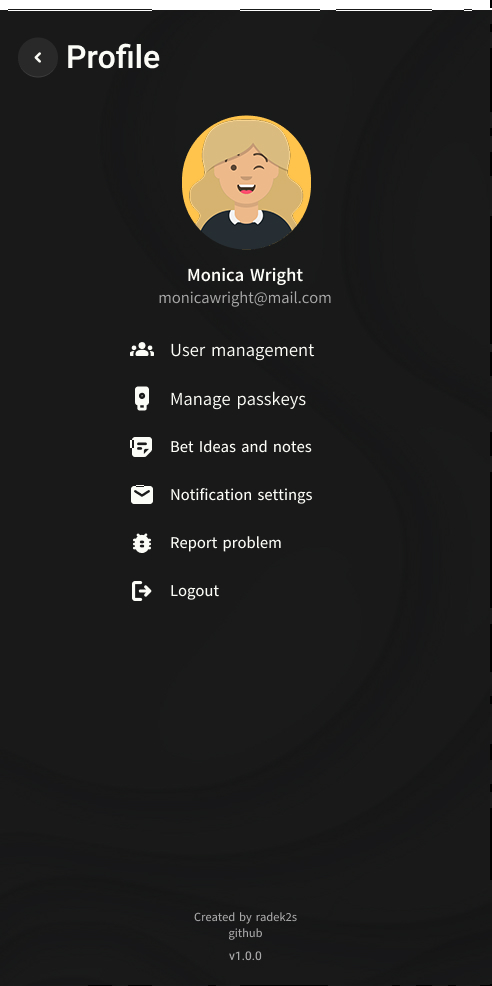
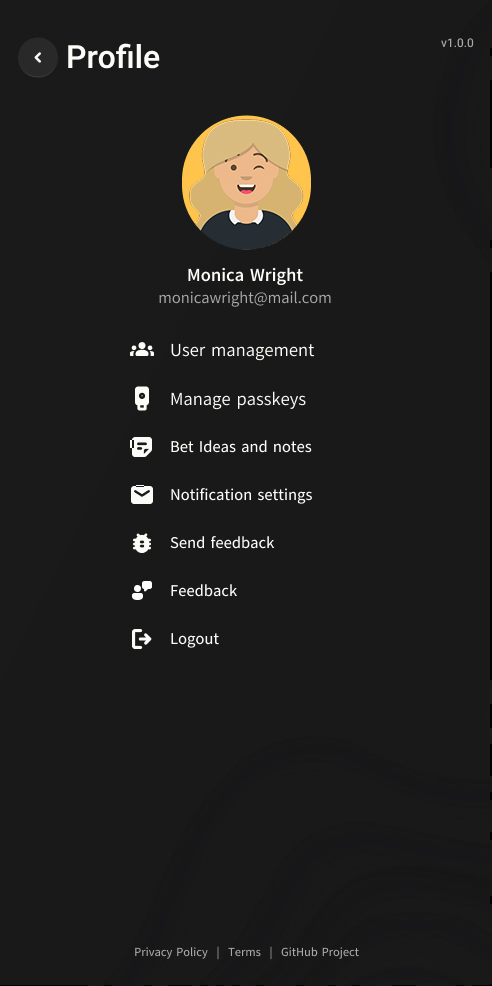
Update use cases and notification designs

diff --git a/documents/01_requirements/use_cases/bet_context.md b/documents/01_requirements/use_cases/bet_context.md
@@ -1,10 +1,10 @@
 ### Bet context
-User with at least one friend he is able to create new bet request. **Bet request** is a draft of **Bet** where participants must define common version of terms, claims and stakes that are accepted by both participants. Any participant can approve or reject given terms, claims and stakes. When participant reject request it disappears from his pending bet request list but still is able to find it from bet requests rejected list view.
+User with at least one friend he is able to create new bet request. **Bet request** is a draft of **Bet** where participants must define common version of terms, claims and stakes that are accepted by both participants. When somebody is invited to bet request firend should be informed about new item via email (if has enabled specific settings). Any participant can approve or reject given terms, claims and stakes. When participant reject request it disappears from his pending bet request list but still is able to find it from bet requests rejected list view.
 
-Each update of terms, claims or stakes within bet request reset the participants votes. It is not approved nor rejected - its just in pending state. Each participants must again decide if they are rejecting or approving bet terms and stakes. If someone will change the content of bet it might cause the notification flood or other unwanted items on users dashboard so there is a possibility to block given bet request and given bet will not appear in pending list and user will not receive notifications.
+Each update of terms, claims or stakes within bet request reset the participants votes. It is not approved nor rejected - its just in pending state. Each participants must again decide if they are rejecting or approving bet terms and stakes. 
 CREATOR should be able to delete given bet request and this removes this item from system completly and forever.
 
-When both participants approved terms, claims and stakes Bet Request produces a Bet instance that has immutable terms, claims and stakes. When bet is created any participant can resolve bet which means that person who win must receive the "stake". When it will be done bet participant should mark bet as completed. Completed bets should not be visible on user bets in progress list. In participated bets completed bets should be moved to separate view.
+When both participants approved terms, claims and stakes Bet Request produces a Bet instance that has immutable terms, claims and stakes. When bet is created any participant can resolve bet which means that person who win must receive the "stake". When it will be done bet winner should mark bet as completed. Completed bets should not be visible on user bets in progress list. In participated bets completed bets should be moved to separate view. There might be problem do resolve bet because of invalid terms or imprecise claims. Those bets should be marked as unresolved that users does not have to realise stake.
 
 
 ```mermaid
@@ -13,10 +13,10 @@ title: Bet Use Cases
 ---
 flowchart TB
     USER ---> BET_VIEW(["Show participated bets"])
-    BET_VIEW ---> BET_VIEW_PENDING(["Show bets in progress"]) & BET_VIEW_RESOLVED(["Show completed bets"])
-    USER -- assigining friend user defines terms, claims and stakes ---> BET_REQUEST[/"Bet Request"/]
+    BET_VIEW ---> BET_VIEW_PENDING(["Show unresolved bets"]) & BET_VIEW_RESOLVED(["Show unclaimed bets"]) & BET_VIEW_COMPLETED(["Show completed bets"])
+    USER -- assigining friend user defines terms, claims and stakes ---> BET_REQUEST_EVENT{{Send email notification to friend if has enabled this option enabled}} --> BET_REQUEST[/"Bet Request"/]
     USER["User"] ---> BET_REQUESTS(["Show Bet requests"])
-    BET_REQUESTS(["Show Bet requests"]) --> BET_REQUESTS_PENDING(["Show unknown"])
+    BET_REQUESTS(["Show Bet requests"]) --> BET_REQUESTS_PENDING(["Show pending"])
     BET_REQUESTS(["Show Bet requests"]) --> BET_REQUESTS_REJECTED(["Show rejected"])
     BET_REQUEST -- only creator or admin --> BET_REQUEST_DELETE(["Delete"])
     BET_REQUEST -- any participant --> BET_REQUEST_UPDATE(["Update terms, claims and stakes"])
@@ -27,7 +27,8 @@ flowchart TB
     
     BET_APPROVED(["Approve"]) -- terms, claims and stakes becomes immutable --> BET[/"Bet"/]
     BET --> BET_RESOLVE(["Resolve"])
-    BET_RESOLVE -- (optional) define due date --> BET_COMPLETE(["Complete"])
+    BET_RESOLVE -- only winner or admin--> BET_COMPLETE(["Complete"])
+    BET -- unable to establish winner --> BET_UNRESOLVED(["Mark as unresolved"])
     BET -- only creator or admin --> BET_DELETE(["Delete"])
 
 
@@ -50,6 +51,7 @@ flowchart TB
 
     subgraph Bet
     PENDING("Pending") --> RESOLVED("Resolved")
+    PENDING -- Tie or unable to establish winner --> UNRESOLVED("Unresolved")
     RESOLVED --> COMPLETED("Completed")
     end
     

diff --git a/documents/05_app_designs/readme.md b/documents/05_app_designs/readme.md
@@ -38,6 +38,8 @@ Bet creation wizzard:
 
 ![image](./dark/05%20-%20Profile%20Page.jpg)
 
+![image](./dark/05-01%20-%20Feedback%20Dialog.jpg)
+
 
 # Manage users page
 
